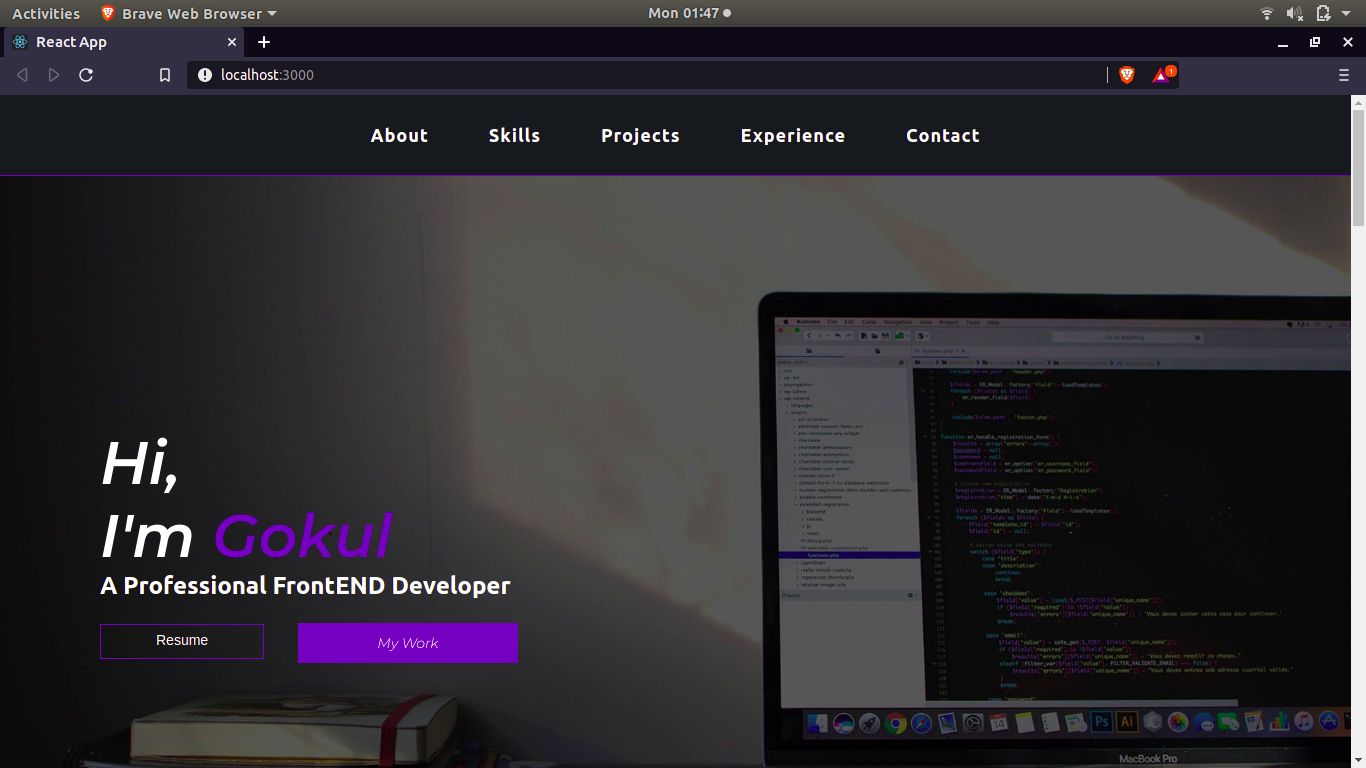
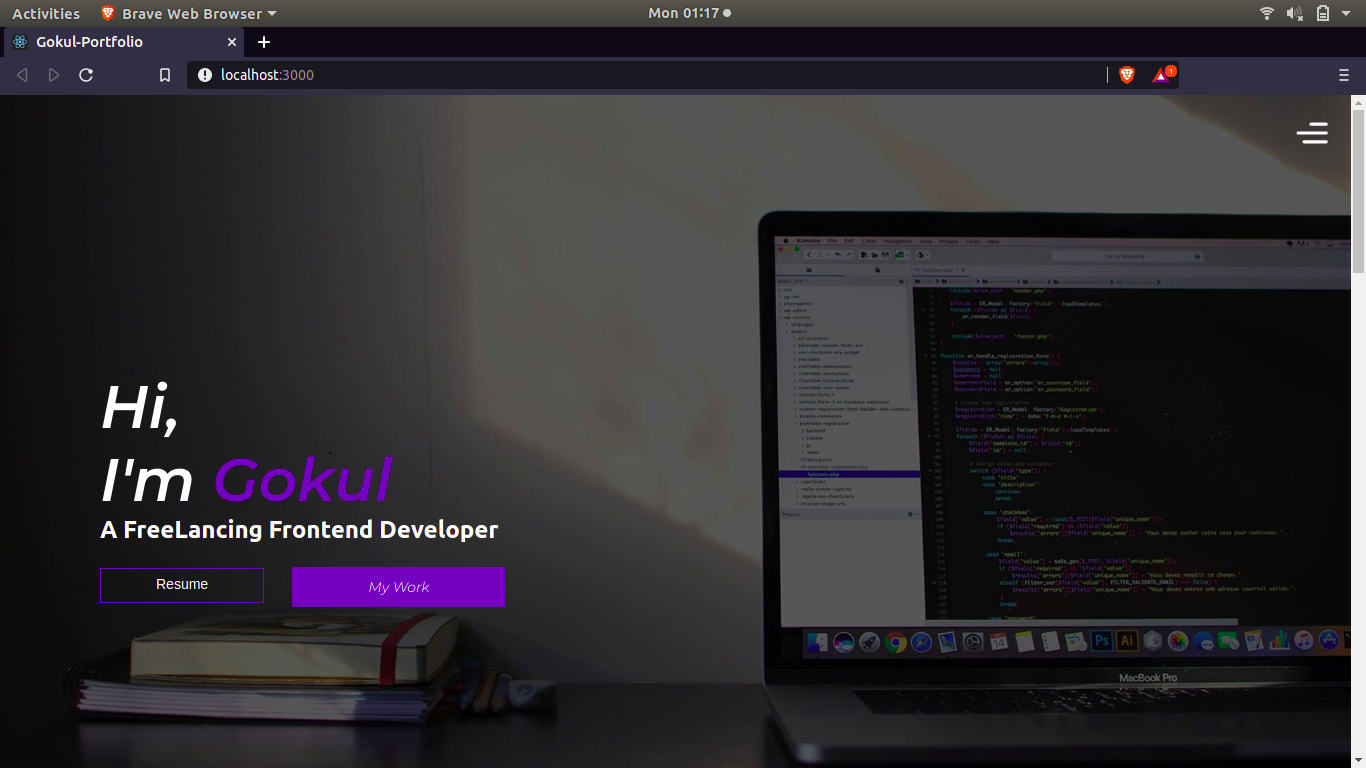
add tesla-clone into projects

Changed region(s): [[0.0615, 0.125, 1.0, 1.0], [0.0307, 0.0312, 0.123, 0.0625]]

diff --git a/src/components/ProjectContainer.js b/src/components/ProjectContainer.js
@@ -4,8 +4,8 @@ import { Element } from "react-scroll";
 import styled from "styled-components";
 import realestate from "../images/realestate.png";
 import portfolio from "../images/portfolio.png";
-import portfolio2 from "../images/portfolio2.png";
 import oyo from "../images/oyo.png";
+import tesla from "../images/tesla.png";
 
 const ProjectContainerCss = styled.div`
   display: flex;
@@ -87,10 +87,10 @@ const ProjectContainer = () => {
       link: "https://oyorooms-clone.netlify.app",
     },
     {
-      img: portfolio2,
-      title: "PortFolio Website for frontEndDev",
-      desc: "My Portfolio site, Responsive for both mobile and computer",
-      link: "https://gokul-portfolio.netlify.app",
+      img: tesla,
+      title: "tesla clone website",
+      desc: "My Portfolio site, Responsive for both mobile and computelanding page only",
+      link: "https://jovial-payne-38da49.netlify.app/",
     },
   ];
   return (

diff --git a/src/App.js b/src/App.js
@@ -4,7 +4,7 @@ import ProjectContainer from "./components/ProjectContainer";
 import SkillContainer from "./components/SkillContainer";
 import TopContainer from "./components/TopContainer";
 import "./App.css";
-import ExperienceContainer from "./components/ExperienceContainer";
+// import ExperienceContainer from "./components/ExperienceContainer";
 import Contact from "./components/Contact";
 import Dropdown from "./components/Dropdown";
 

diff --git a/src/components/Dropdown.js b/src/components/Dropdown.js
@@ -1,7 +1,6 @@
 import React from "react";
 import { Link } from "react-scroll";
 import styled from "styled-components";
-import { FaTimes } from "react-icons/fa";
 
 const DropdownContainer = styled.div`
   position: fixed;

diff --git a/src/components/TopContent.js b/src/components/TopContent.js
@@ -9,7 +9,7 @@ const TopContentCss = styled.div`
 
 const TopContentContainer = styled.div`
   position: absolute;
-  top: 300px;
+  top: 275px;
   left: 100px;
   p {
     letter-spacing: 1px;

diff --git a/src/components/Header.js b/src/components/Header.js
@@ -1,5 +1,4 @@
 import React from "react";
-import { Link } from "react-scroll";
 import styled from "styled-components";
 import Bars from "../images/bars.svg";
 
